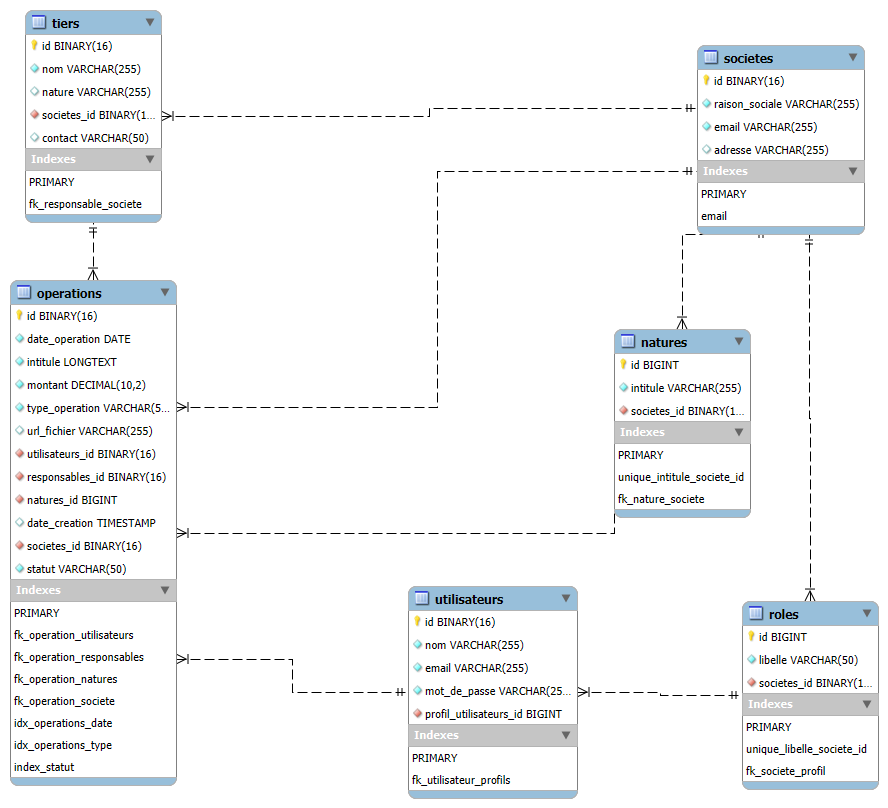
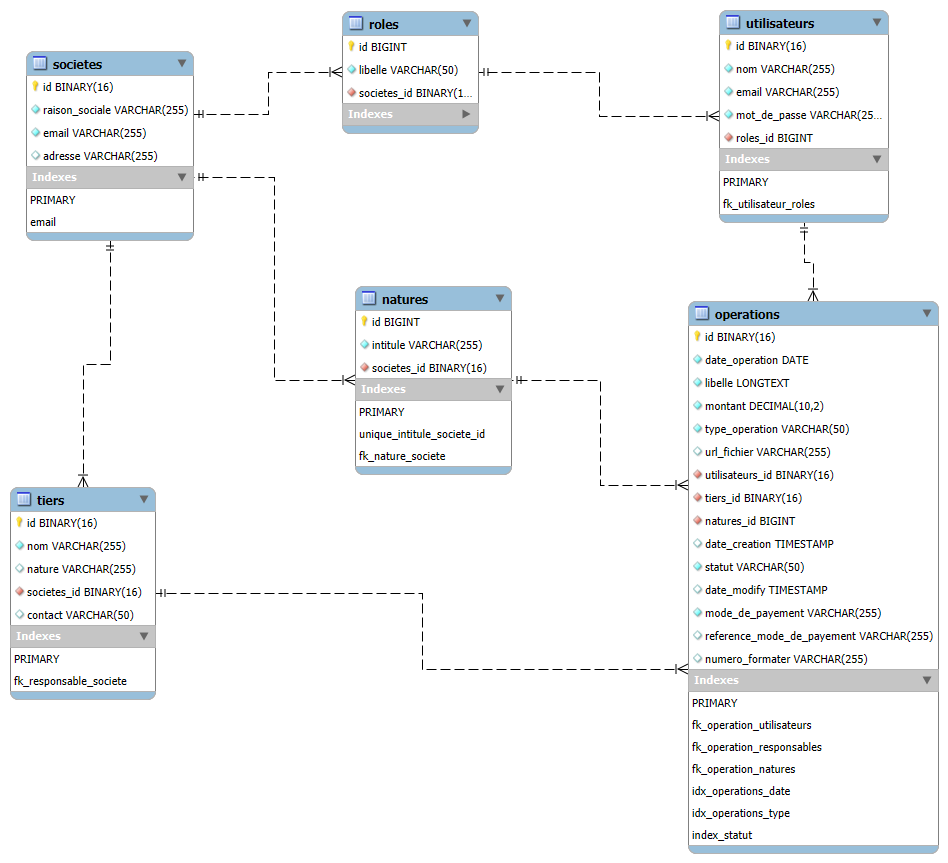
La classe Operation crée avec succès

diff --git a/src/main/java/com/kobbo/kobbo/entity/Operation.java b/src/main/java/com/kobbo/kobbo/entity/Operation.java
@@ -2,19 +2,60 @@ package com.kobbo.kobbo.entity;
 
 import com.kobbo.kobbo.enumeration.Statut;
 import com.kobbo.kobbo.enumeration.TypeOperation;
+import jakarta.persistence.*;
+import lombok.AllArgsConstructor;
+import lombok.Getter;
+import lombok.NoArgsConstructor;
+import lombok.Setter;
 
 import java.time.LocalDate;
 import java.util.UUID;
 
+@Entity
+@Table(name = "operations")
+@AllArgsConstructor
+@NoArgsConstructor
+@Getter
+@Setter
 public class Operation {
+    @Id
+    @GeneratedValue(strategy = GenerationType.UUID)
+    @Column(name = "id")
     private UUID id;
-    private LocalDate dateOperation;
-    private Statut statut;
-    private TypeOperation typeOperation;
-    private String libelle;
-    private Long montant;
-    private String modeDePayement;
-    private String referenceModeDePayement;
-    
 
+    @Column(name = "date_operation")
+    private LocalDate dateOperation;
+
+    @Column(name = "statut")
+    private Statut statut;
+
+    @Column(name = "type_operation")
+    private TypeOperation typeOperation;
+
+    @Column(name = "libelle")
+    private String libelle;
+
+    @Column(name = "montant")
+    private Long montant;
+
+    @Column(name = "mode_de_payement")
+    private String modeDePayement;
+
+    @Column(name = "reference_mode_de_payement")
+    private String referenceModeDePayement;
+
+    @Column(name = "numero_formater")
+    private String numeroFormater;
+
+    @ManyToOne
+    @JoinColumn(name = "tiers_id")
+    private Tiers tiers;
+
+    @ManyToOne
+    @JoinColumn(name = "natures_id")
+    private Nature nature;
+
+    @ManyToOne
+    @JoinColumn(name = "utilisateurs_id")
+    private Utilisateur utilisateur;
 }
